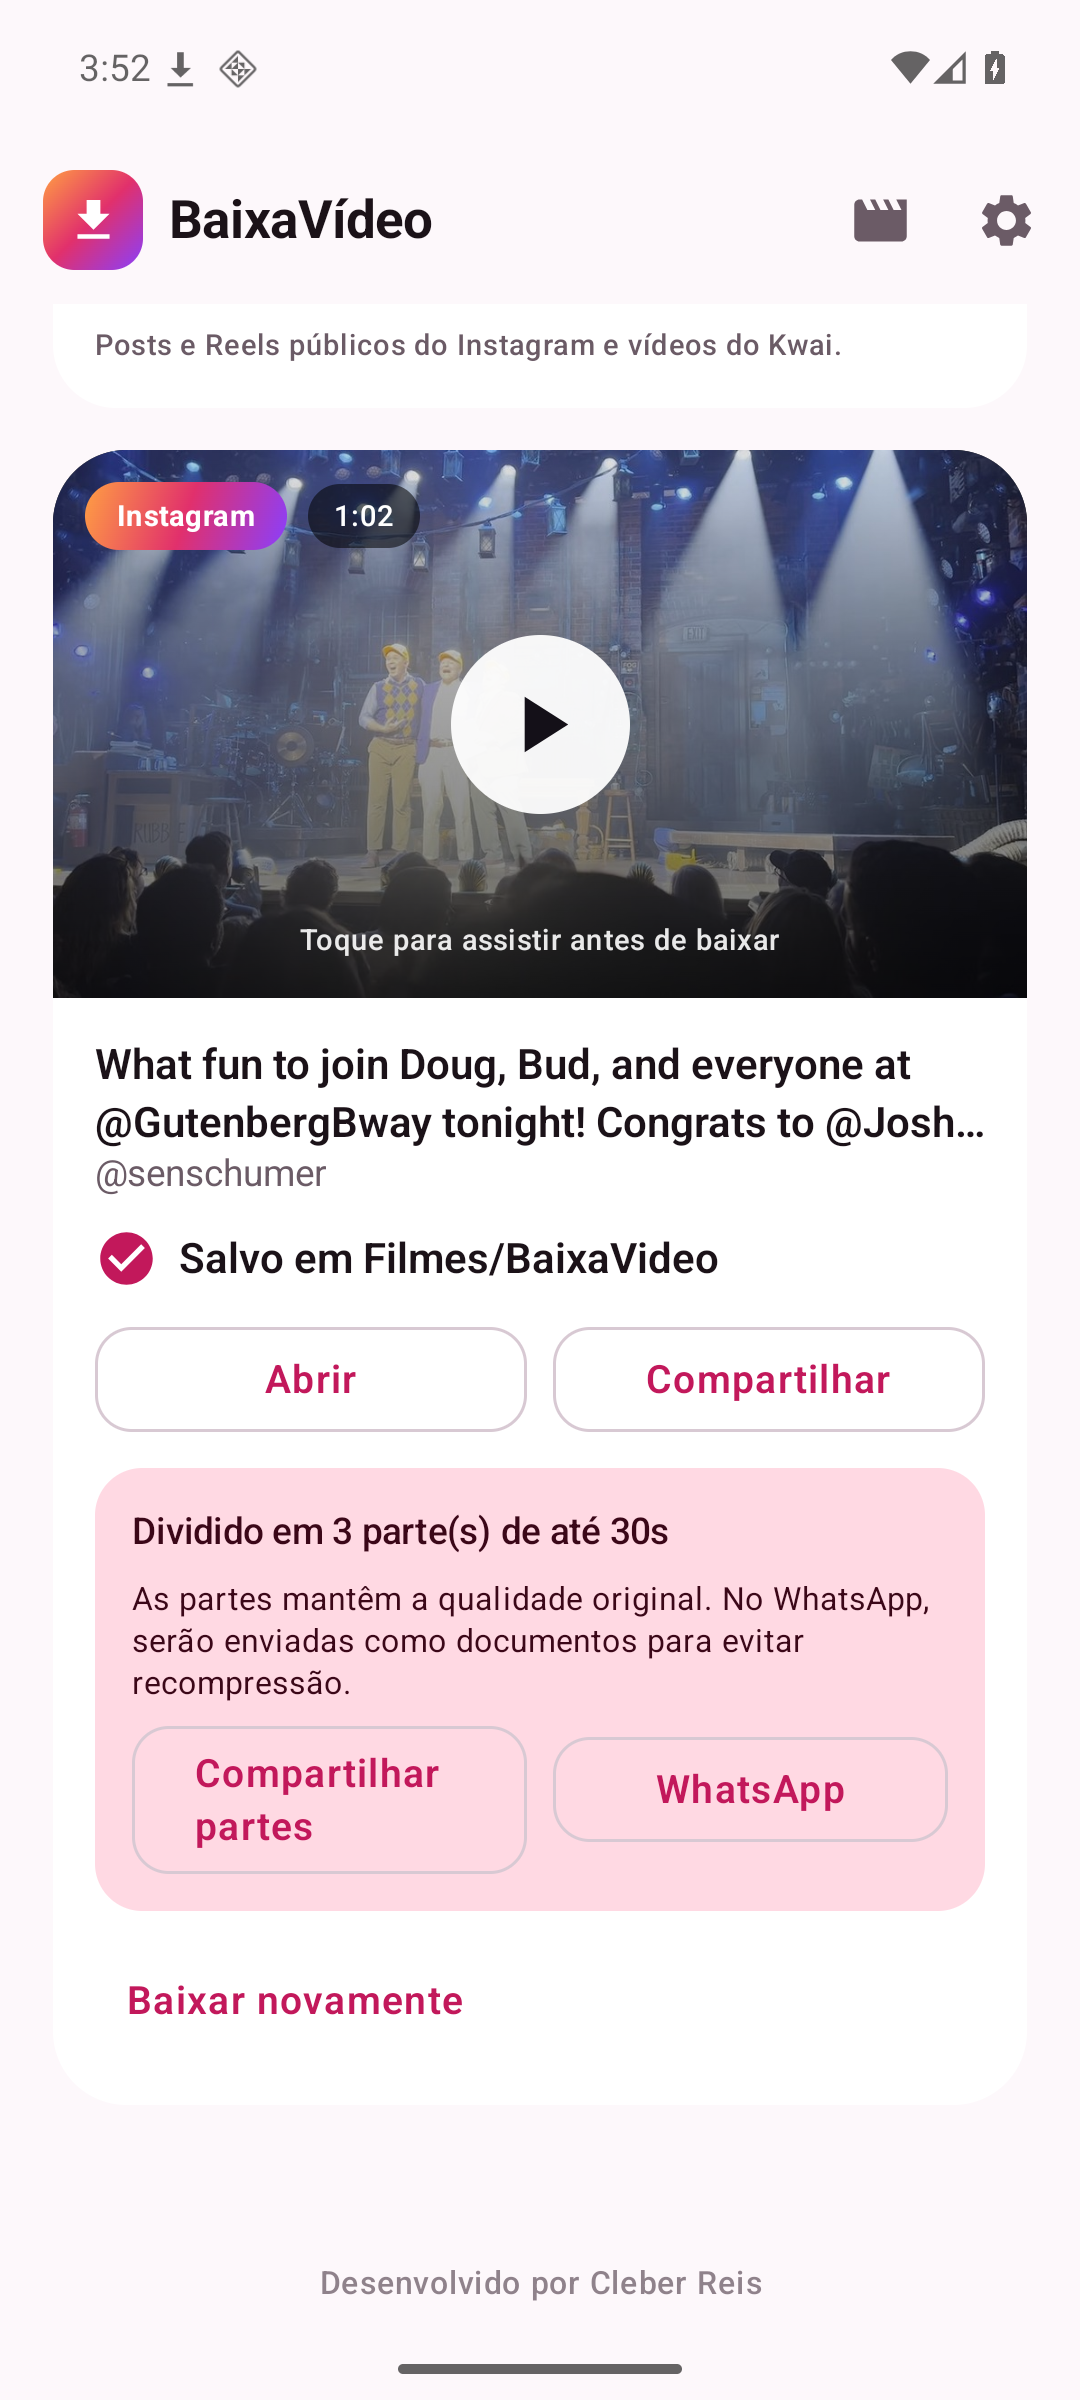
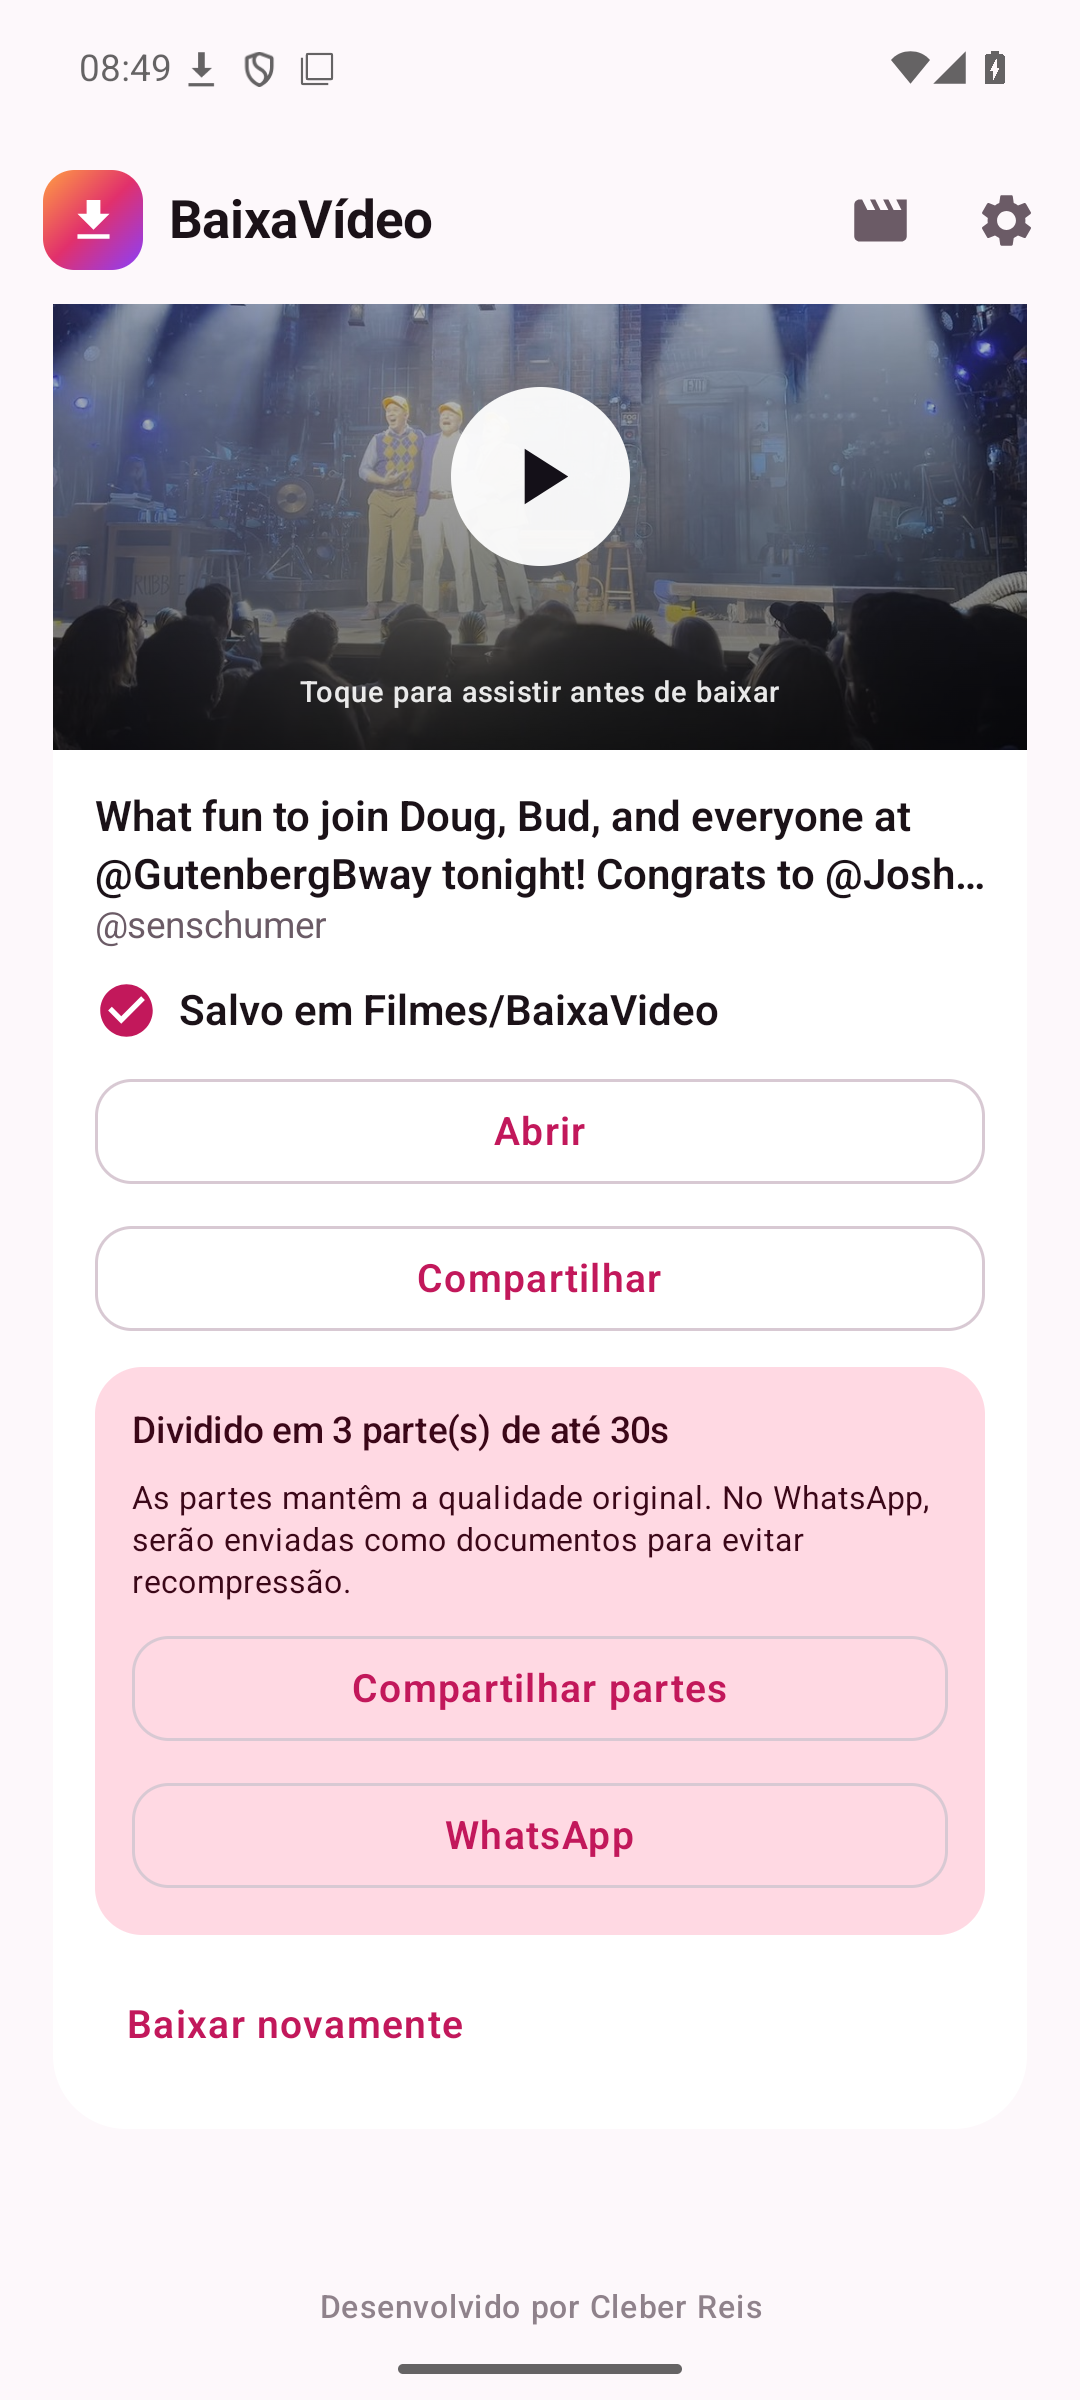
fix: keep sharing button labels fully visible

diff --git a/app/src/main/java/com/cleber/baixavideo/ui/HomeScreen.kt b/app/src/main/java/com/cleber/baixavideo/ui/HomeScreen.kt
@@ -14,7 +14,6 @@ import androidx.compose.foundation.layout.Arrangement
 import androidx.compose.foundation.layout.Box
 import androidx.compose.foundation.layout.Column
 import androidx.compose.foundation.layout.Row
-import androidx.compose.foundation.layout.RowScope
 import androidx.compose.foundation.layout.Spacer
 import androidx.compose.foundation.layout.fillMaxSize
 import androidx.compose.foundation.layout.fillMaxWidth
@@ -651,9 +650,21 @@ private fun DownloadSection(
                         style = MaterialTheme.typography.titleMedium
                     )
                 }
-                Row(horizontalArrangement = Arrangement.spacedBy(10.dp)) {
-                    SecondaryButton(text = "Abrir", onClick = { onOpen(savedPath, savedUri) })
-                    SecondaryButton(text = "Compartilhar", onClick = { onShare(savedPath, savedUri) })
+                Column(verticalArrangement = Arrangement.spacedBy(8.dp)) {
+                    OutlinedButton(
+                        onClick = { onOpen(savedPath, savedUri) },
+                        modifier = Modifier.fillMaxWidth(),
+                        shape = RoundedCornerShape(14.dp)
+                    ) {
+                        Text("Abrir", maxLines = 1)
+                    }
+                    OutlinedButton(
+                        onClick = { onShare(savedPath, savedUri) },
+                        modifier = Modifier.fillMaxWidth(),
+                        shape = RoundedCornerShape(14.dp)
+                    ) {
+                        Text("Compartilhar", maxLines = 1)
+                    }
                 }
 
                 if (splitFiles.isNotEmpty()) {
@@ -676,15 +687,21 @@ private fun DownloadSection(
                                 style = MaterialTheme.typography.bodySmall,
                                 color = MaterialTheme.colorScheme.onPrimaryContainer
                             )
-                            Row(horizontalArrangement = Arrangement.spacedBy(10.dp)) {
-                                SecondaryButton(
-                                    text = "Compartilhar partes",
-                                    onClick = { onShareParts(splitFiles) }
-                                )
-                                SecondaryButton(
-                                    text = "WhatsApp",
-                                    onClick = { onSharePartsWhatsApp(splitFiles) }
-                                )
+                            Column(verticalArrangement = Arrangement.spacedBy(8.dp)) {
+                                OutlinedButton(
+                                    onClick = { onShareParts(splitFiles) },
+                                    modifier = Modifier.fillMaxWidth(),
+                                    shape = RoundedCornerShape(14.dp)
+                                ) {
+                                    Text("Compartilhar partes", maxLines = 1)
+                                }
+                                OutlinedButton(
+                                    onClick = { onSharePartsWhatsApp(splitFiles) },
+                                    modifier = Modifier.fillMaxWidth(),
+                                    shape = RoundedCornerShape(14.dp)
+                                ) {
+                                    Text("WhatsApp", maxLines = 1)
+                                }
                             }
                         }
                     }
@@ -728,16 +745,5 @@ private fun DownloadSection(
                 color = MaterialTheme.colorScheme.onSurfaceVariant
             )
         }
-    }
-}
-
-@Composable
-private fun RowScope.SecondaryButton(text: String, onClick: () -> Unit) {
-    OutlinedButton(
-        onClick = onClick,
-        shape = RoundedCornerShape(14.dp),
-        modifier = Modifier.weight(1f)
-    ) {
-        Text(text)
     }
 }
